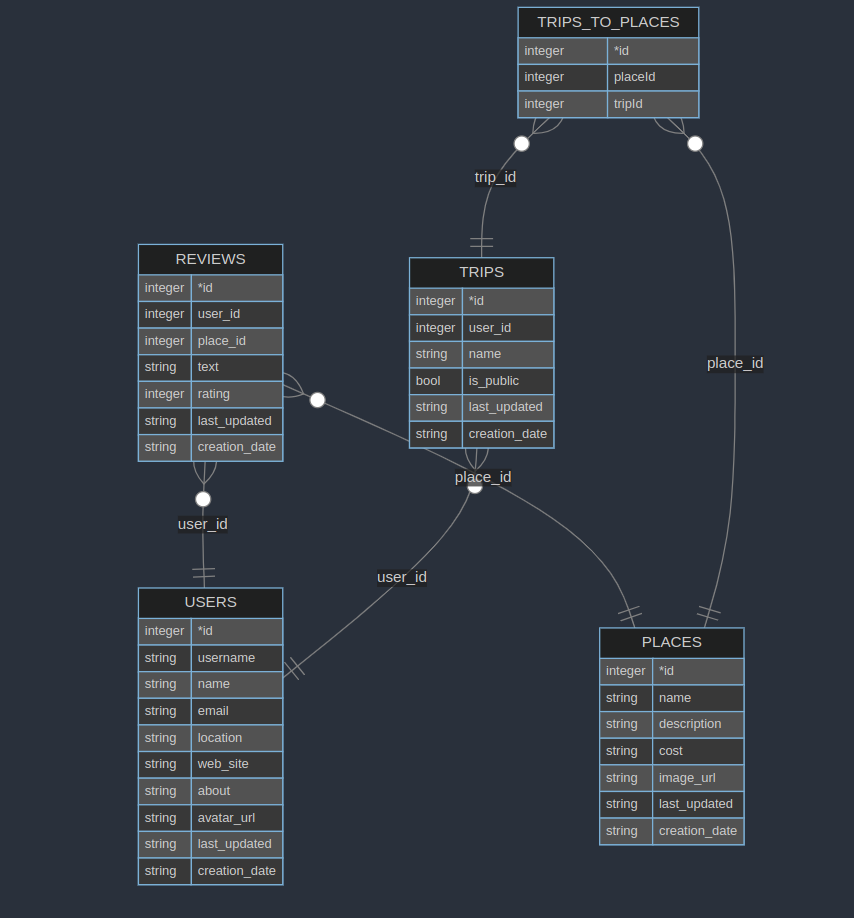
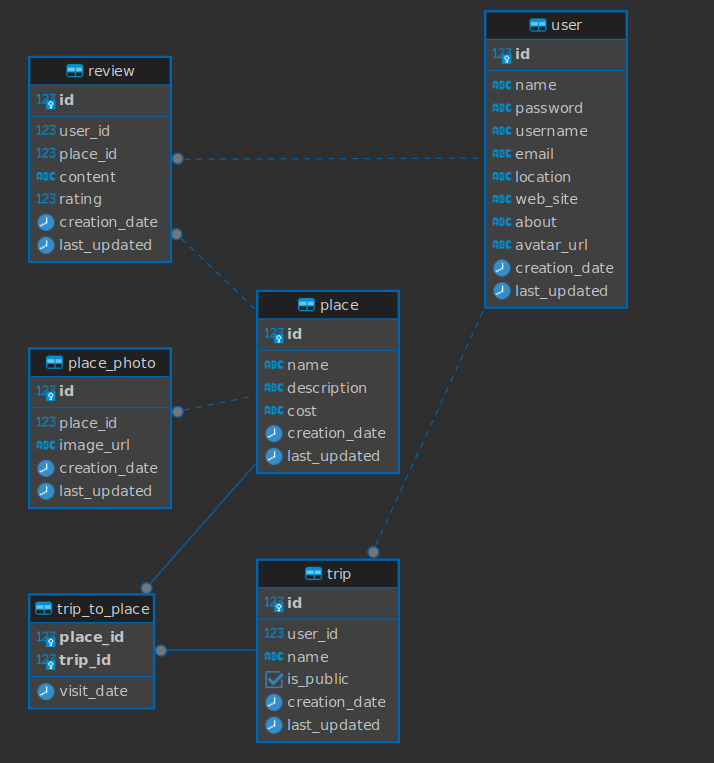
update ERD

Changed region(s): [[0.0308, 0.0, 0.8936, 0.9646], [0.6779, 0.6632, 0.8936, 0.9345], [0.4006, 0.6632, 0.4314, 0.6933]]

diff --git a/db/normalized/relations.md b/db/normalized/relations.md
@@ -10,26 +10,29 @@
 
 Таблица с отзывами.
 
-#Relation Places:
+#Relation Place:
 
-{id} -> name, description, cost, image_url, creation_date, last_updated
-
+{id} -> name, description, cost, creation_date, last_updated
 
 Таблица с достопримечательностями.
 
-#Relation Trips:
+#Relation Trip:
 
 {id} -> user_id, name, is_public, creation_date, last_updated
 
-
 Таблица с поездками.
 
-#Relation Trips_to_places:
+#Relation Trip_to_place:
 
-{id} -> place_id, trip_id
+{place_id, trip_id} -> visit_date
 
+Таблица для отношения многие ко многим между поездками и достопримечательностями + дата посещения места в поездке.
 
-Таблица для отношения многие ко многим между поездками и достопримечательностями.
+#Relation place_photo
+
+{id} -> place_id, image_url, creation_date, last_updated
+
+Таблица с фотографиями мест
 
 #Нормальные формы
 
